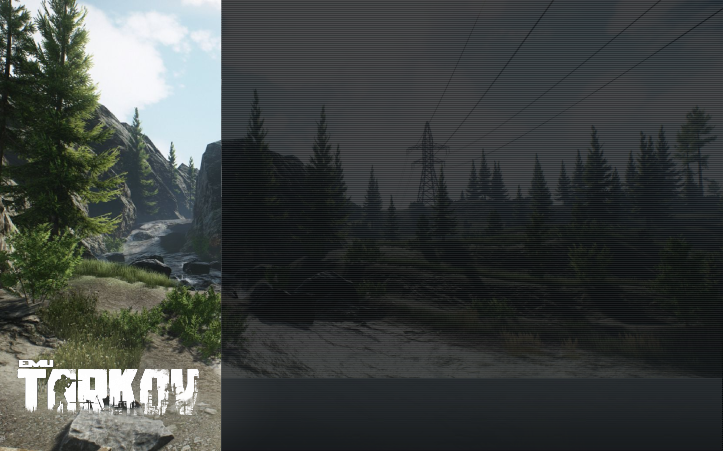
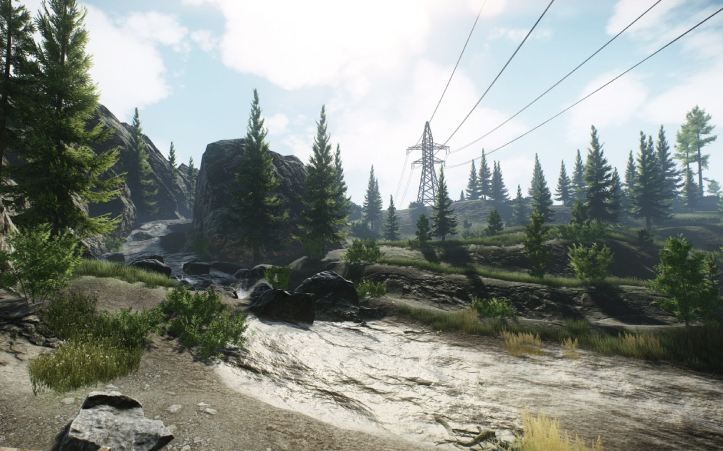
Split transparant layer from background

diff --git a/Project/Views/MainWindow.xaml b/Project/Views/MainWindow.xaml
@@ -9,18 +9,9 @@
     <Grid x:Name="WindowGrid">
         <!-- background -->
         <Image x:Name="Bg" Source="pack://siteoforigin:,,,/data/images/bg.png" HorizontalAlignment="Left" Height="450" VerticalAlignment="Top" Width="730"/>
-
-        <!-- message grid -->
-        <Grid HorizontalAlignment="Left" Height="86.4" VerticalAlignment="Top" Width="220">
-            <!-- error message -->
-            <!--
-            <Grid x:Name="ErrorGrid" HorizontalAlignment="Left" Height="49.884" VerticalAlignment="Top" Width="495.824" d:IsHidden="True">
-                <Image x:Name="ErrorBg" Source="pack://siteoforigin:,,,/data/images/bg_error.png" Stretch="UniformToFill" HorizontalAlignment="Left" Height="49.884" VerticalAlignment="Top" Width="219.824"/>
-                <Image x:Name="ErrorIcon" Source="pack://siteoforigin:,,,/data/images/icon_error.png" HorizontalAlignment="Left" Height="34.455" VerticalAlignment="Top" Width="41.647" RenderTransformOrigin="0.635,0.679" Margin="10,10,0,0"/>
-                <Label x:Name="ErrorMessage" Content="An error occured" HorizontalAlignment="Left" Margin="56.647,10,0,0" VerticalAlignment="Top" Width="429.177" Height="34.455" Foreground="White" FontSize="16"/>
-            </Grid>
-            -->
-        </Grid>
+        <Image x:Name="BgAlpha" Source="pack://siteoforigin:,,,/data/images/bg_alpha.png" HorizontalAlignment="Left" Height="450" VerticalAlignment="Top" Width="730"/>
+        
+        <!-- message -->
 
         <!-- settings -->
         <Label Content="Email" HorizontalAlignment="Left" Margin="306.8,90.4,0,0" VerticalAlignment="Top" Foreground="White" Height="25.6"/>
@@ -36,7 +27,7 @@
 
         <!-- start buttons -->
         <Button Content="Start Server" HorizontalAlignment="Left" Margin="503.593,394.6,0,0" VerticalAlignment="Top" Width="131" Height="32.8" Click="OnStartServer" FontSize="16" Background="#FF404040" Foreground="#FFDDDDDD" BorderBrush="#FFABADB3"/>
-        <Button Content="Start Game" HorizontalAlignment="Left" Margin="317.193,394.6,0,0" VerticalAlignment="Top" Width="131" Height="32.8" Click="OnStartGame" FontSize="16" Background="#FF404040" Foreground="#FFDDDDDD" BorderBrush="#FFABADB3"/>
+        <Button Content="Start Game" HorizontalAlignment="Left" Margin="306.8,394.6,0,0" VerticalAlignment="Top" Width="131" Height="32.8" Click="OnStartGame" FontSize="16" Background="#FF404040" Foreground="#FFDDDDDD" BorderBrush="#FFABADB3"/>
 
     </Grid>
 </Window>

diff --git a/Project/Properties/Resources.Designer.cs b/Project/Properties/Resources.Designer.cs
@@ -73,6 +73,16 @@ namespace Launcher.Properties {
         /// <summary>
         ///   Looks up a localized resource of type System.Drawing.Bitmap.
         /// </summary>
+        internal static System.Drawing.Bitmap bg_alpha {
+            get {
+                object obj = ResourceManager.GetObject("bg_alpha", resourceCulture);
+                return ((System.Drawing.Bitmap)(obj));
+            }
+        }
+        
+        /// <summary>
+        ///   Looks up a localized resource of type System.Drawing.Bitmap.
+        /// </summary>
         internal static System.Drawing.Bitmap bg_error {
             get {
                 object obj = ResourceManager.GetObject("bg_error", resourceCulture);
